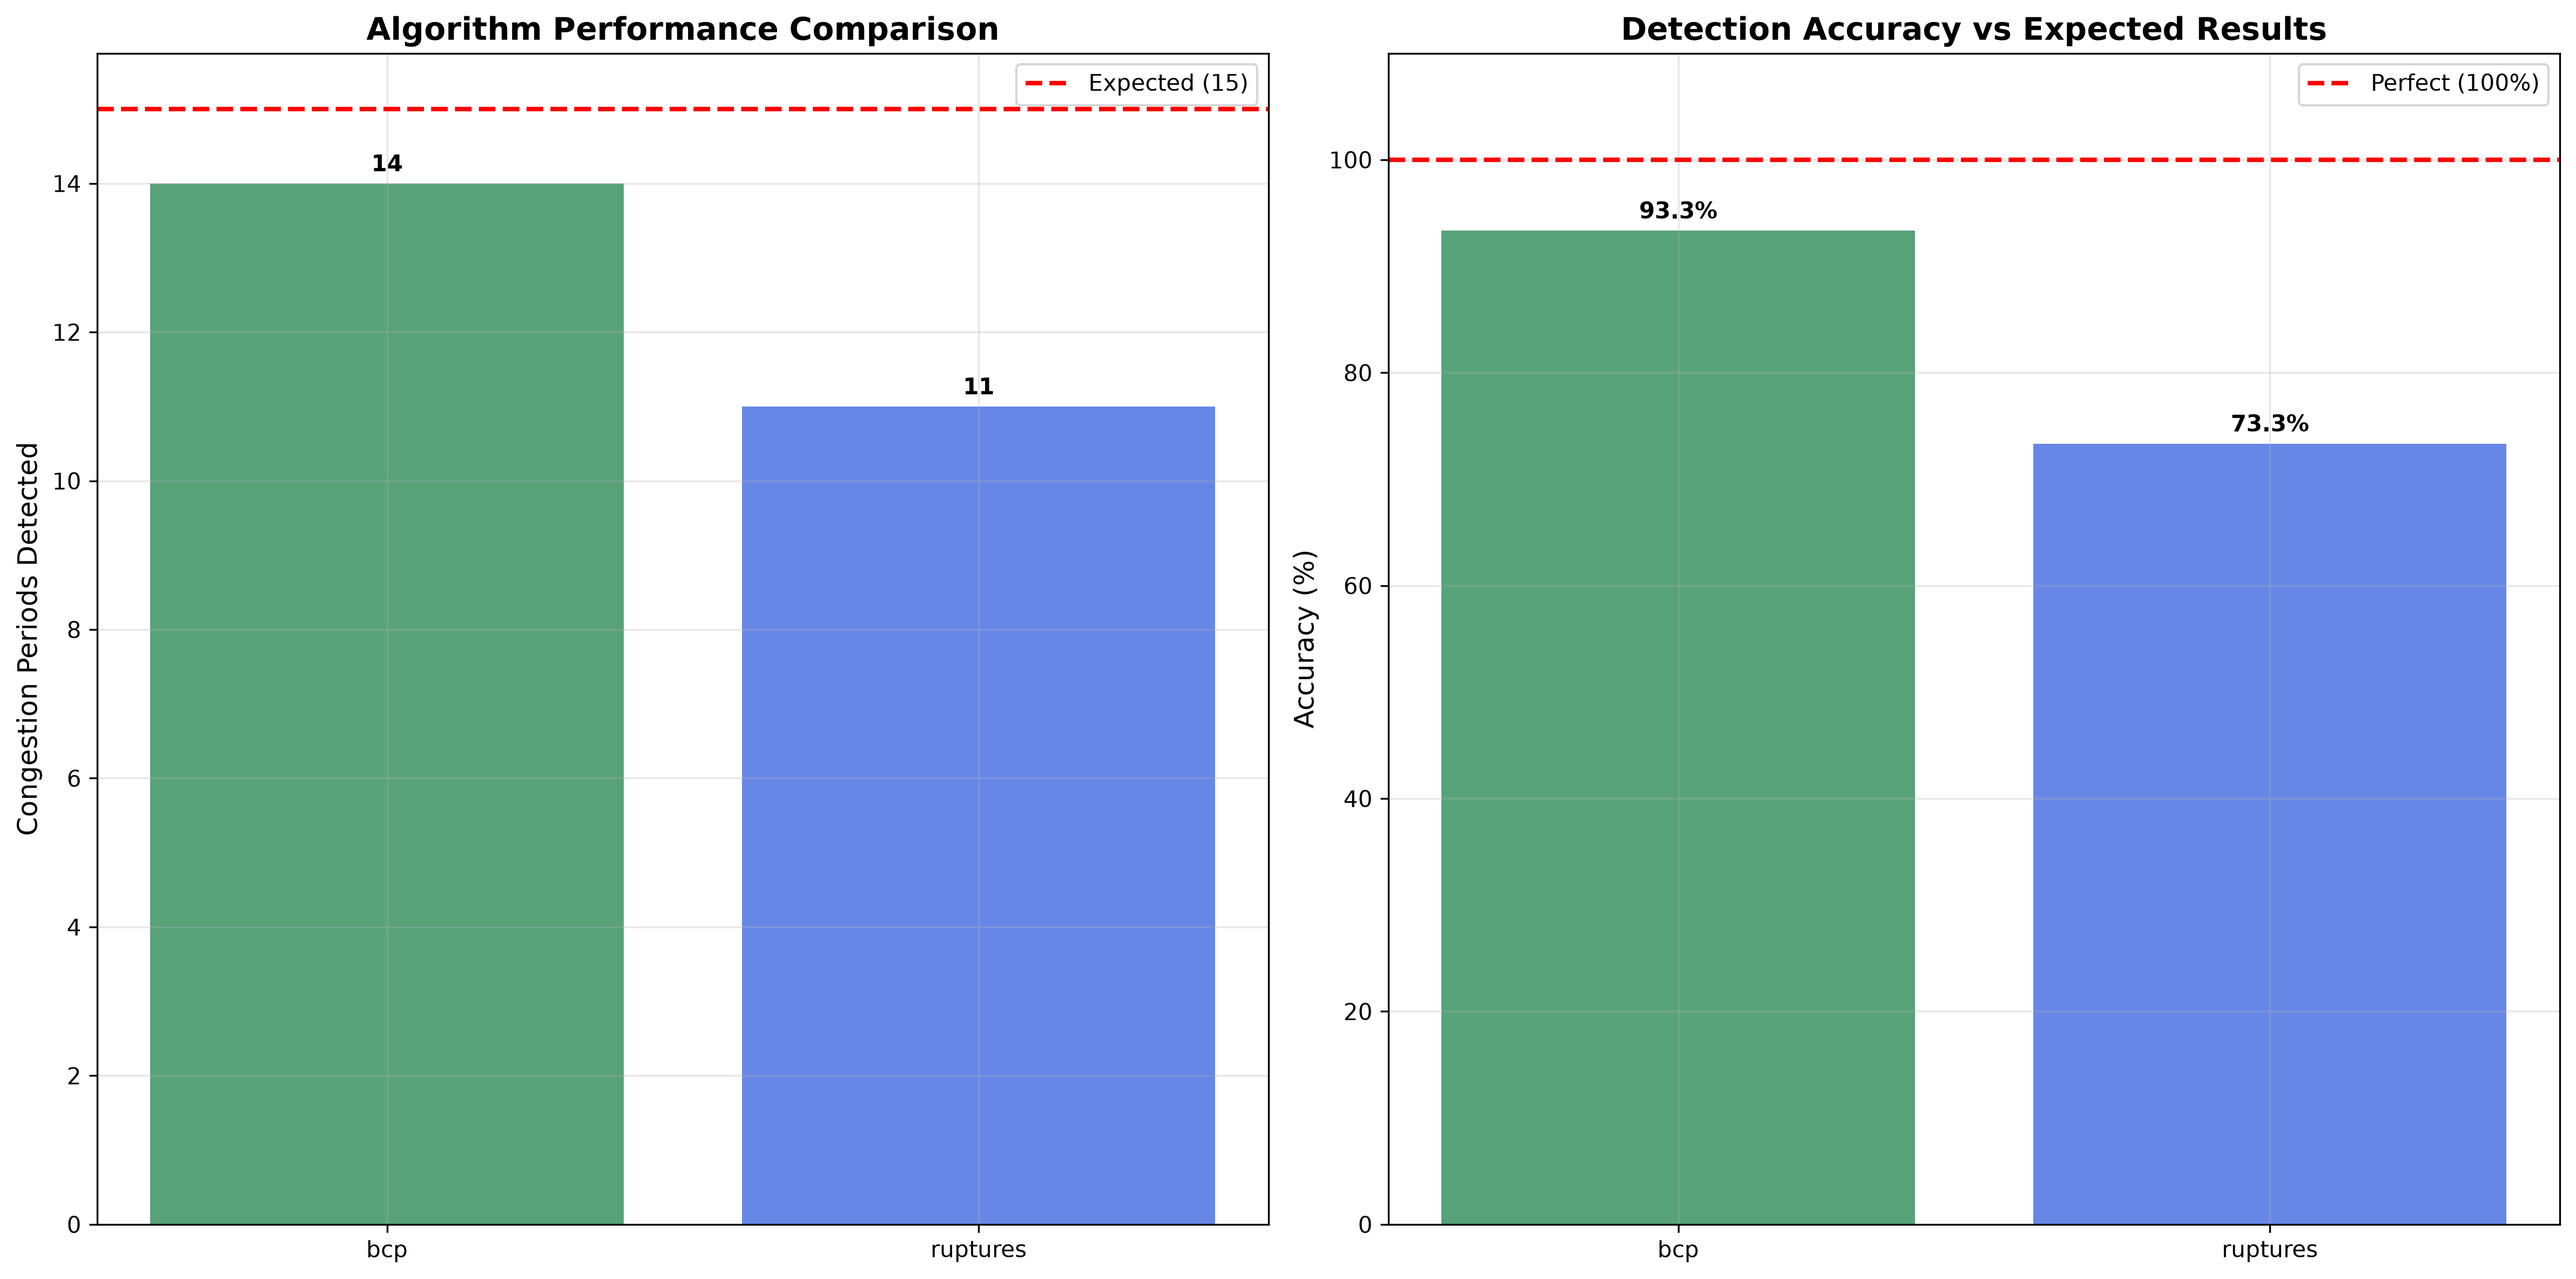
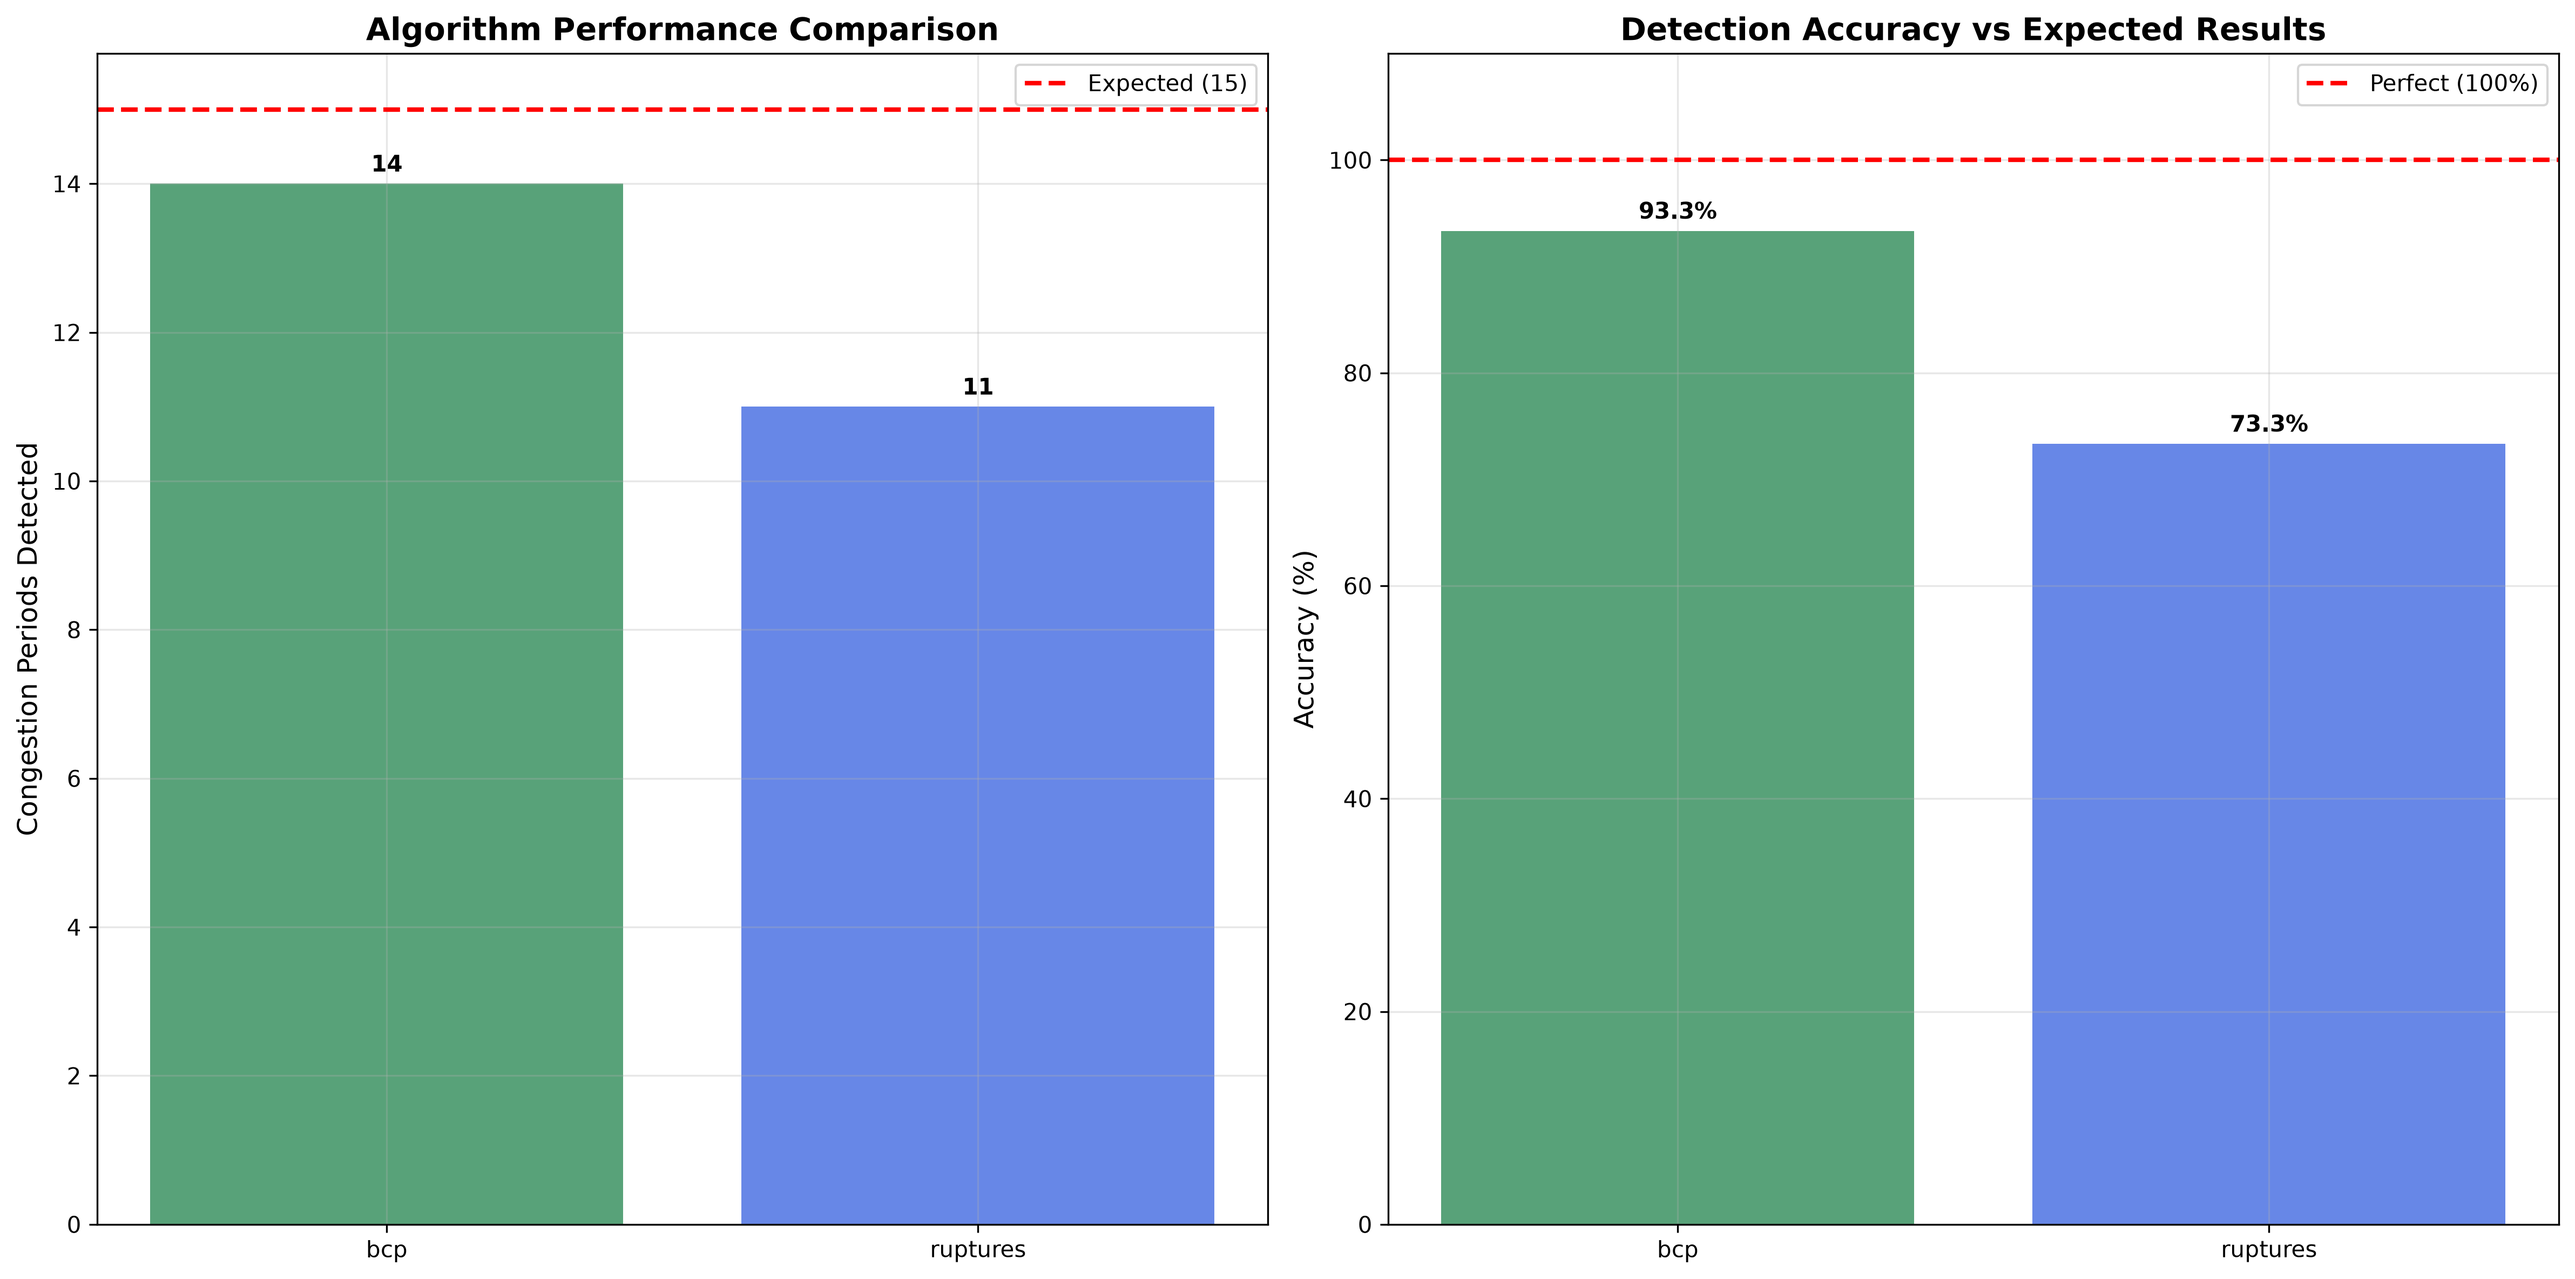
fix: address the Copilot findings on #19 and #20
- `verbose: true` in a configuration file now takes effect from the CLI: the
  analyzer sets the `jitterbug` logger level instead of relying on a second
  `basicConfig`, which is a no-op once the CLI installed its handler. Test.
- End-to-end `jitterbug analyze --config` test: `output_format: csv` from the
  file reaches the exporter through the command's wiring.
- `load_from_influxdb` epochs were computed with `astype(int) / 1e9`, wrong by
  1000x on pandas 3 (microsecond resolution); now resolution-independent. The
  mocked InfluxDB tests were skipped in CI (no `influx` extra) and never caught
  it; a stub `influxdb_client` module now stands in when the package is absent.
- Detector tests assert `tzinfo == timezone.utc` (ruptures on the three-segment
  fixture; BCP via the mocked backend with a certain change point).
- `tools/generate_visualizations.py` converts epochs in UTC, labels the axis
  `Time (UTC)`, and its README template matches the committed file. Bundled
  plots and summaries regenerated: same 14/11 periods, times now UTC (12:30
  instead of Chicago's 06:30).
- CHANGELOG: mypy entry no longer says "advisory"; `file_path` metadata asserted
  in the CSV loader test.

Changed region(s): [[0.4374, 0.0625, 0.4687, 0.0937]]

diff --git a/tests/test_io.py b/tests/test_io.py
@@ -1,6 +1,8 @@
 """Unit tests for ``jitterbug.io``: loaders, format inference, validation and exporters."""
 
 import json
+import sys
+import types
 from datetime import datetime, timezone
 from pathlib import Path
 from unittest.mock import MagicMock, patch
@@ -64,6 +66,7 @@ class TestCSV:
         assert ds.measurements[0].epoch == 1700000000.0
         assert ds.measurements[0].timestamp == datetime.fromtimestamp(1700000000, tz=timezone.utc)
         assert ds.metadata["source"] == "csv"
+        assert ds.metadata["file_path"] == str(csv_file)
 
     def test_explicit_format_wins_over_extension(self, loader: DataLoader, tmp_path: Path) -> None:
         path = tmp_path / "data.txt"
@@ -149,9 +152,25 @@ class TestFormatInference:
             loader.load_from_file(path, file_format="xml")
 
 
+@pytest.fixture
+def influxdb_client(monkeypatch: pytest.MonkeyPatch) -> types.ModuleType:
+    """The real package when installed, otherwise a stub so the loader's import succeeds.
+
+    The tests patch ``InfluxDBClient`` either way, so they exercise the loader's mapping
+    and clean-up logic even in CI, where the ``influx`` extra is not installed.
+    """
+    try:
+        import influxdb_client
+    except ImportError:
+        influxdb_client = types.ModuleType("influxdb_client")
+        influxdb_client.InfluxDBClient = MagicMock()  # type: ignore[attr-defined]
+        monkeypatch.setitem(sys.modules, "influxdb_client", influxdb_client)
+    return influxdb_client
+
+
+@pytest.mark.usefixtures("influxdb_client")
 class TestInfluxDB:
     def test_query_result_is_mapped_to_a_dataset(self, loader: DataLoader) -> None:
-        pytest.importorskip("influxdb_client")
         frame = pd.DataFrame(
             {
                 "_time": pd.to_datetime(["2024-01-01T00:00:00Z", "2024-01-01T00:01:00Z"]),
@@ -171,7 +190,6 @@ class TestInfluxDB:
         assert ds.measurements[0].epoch == datetime(2024, 1, 1, tzinfo=timezone.utc).timestamp()
 
     def test_multiple_tables_are_concatenated(self, loader: DataLoader) -> None:
-        pytest.importorskip("influxdb_client")
         t1 = pd.DataFrame({"_time": pd.to_datetime(["2024-01-01T00:00:00Z"]), "_value": [1.0]})
         t2 = pd.DataFrame({"_time": pd.to_datetime(["2024-01-01T00:01:00Z"]), "_value": [2.0]})
         client = MagicMock()
@@ -181,7 +199,6 @@ class TestInfluxDB:
         assert len(ds) == 2
 
     def test_missing_value_column(self, loader: DataLoader) -> None:
-        pytest.importorskip("influxdb_client")
         frame = pd.DataFrame({"_time": pd.to_datetime(["2024-01-01T00:00:00Z"]), "x": [1.0]})
         client = MagicMock()
         client.query_api.return_value.query_data_frame.return_value = frame

diff --git a/tests/test_change_point_algorithms.py b/tests/test_change_point_algorithms.py
@@ -5,7 +5,7 @@ Comprehensive tests for all change point detection algorithms.
 import importlib.util
 import sys
 import types
-from datetime import datetime, timedelta
+from datetime import datetime, timedelta, timezone
 
 import numpy as np
 import pytest
@@ -135,6 +135,15 @@ class TestRupturesDetector:
 
             except ImportError:
                 pytest.skip(f"Ruptures library not available for model {model}")
+
+    def test_ruptures_timestamps_are_utc(self, three_segment_min_rtt: MinimumRTTDataset):
+        """Regression: change point timestamps used to be naive local time."""
+        detector = RupturesDetector(ChangePointDetectionConfig(algorithm="ruptures"))
+        change_points = detector.detect(three_segment_min_rtt)
+        assert change_points, "the three-segment series has two clear jumps"
+        for cp in change_points:
+            assert cp.timestamp.tzinfo == timezone.utc
+            assert cp.timestamp.timestamp() == cp.epoch
 
     def test_ruptures_penalty_effects(self):
         """Test that penalty parameter affects number of change points."""
@@ -273,7 +282,9 @@ class TestBayesianChangePointDetector:
         def offline_changepoint_detection(data, prior, likelihood, truncate, device):
             calls["detection_device"] = device
             calls["likelihood"] = likelihood
-            return None, None, np.full((2, len(data)), -np.inf)
+            log_pcp = np.full((2, len(data)), -np.inf)
+            log_pcp[0, 5] = 0.0  # probability 1 of a change point at index 5
+            return None, None, log_pcp
 
         class Priors:
             @staticmethod
@@ -297,7 +308,8 @@ class TestBayesianChangePointDetector:
         config = ChangePointDetectionConfig(algorithm="bcp", bcp_device=device)
         change_points = BayesianChangePointDetector(config).detect(three_segment_min_rtt)
 
-        assert change_points == []
+        assert [cp.epoch for cp in change_points] == [three_segment_min_rtt.measurements[5].epoch]
+        assert change_points[0].timestamp.tzinfo == timezone.utc
         assert calls["likelihood_device"] == device
         assert calls["detection_device"] == device
         assert isinstance(calls["likelihood"], StudentT)

diff --git a/tools/generate_visualizations.py b/tools/generate_visualizations.py
@@ -1,6 +1,6 @@
 #!/usr/bin/env python3
 
-from datetime import datetime
+from datetime import datetime, timezone
 from pathlib import Path
 
 import matplotlib.pyplot as plt
@@ -30,7 +30,7 @@ def generate_algorithm_visualization(algorithm_name, output_dir):
 
         # Convert epochs to datetime
         def epoch_to_datetime(epoch_series):
-            return [datetime.fromtimestamp(t) for t in epoch_series]
+            return [datetime.fromtimestamp(t, tz=timezone.utc) for t in epoch_series]
 
         raw_times = epoch_to_datetime(raw_df["epoch"])
         mins_times = epoch_to_datetime(mins_df["epoch"])
@@ -68,8 +68,8 @@ def generate_algorithm_visualization(algorithm_name, output_dir):
         congested_periods = []
 
         for inference in results.inferences:
-            start_dt = datetime.fromtimestamp(inference.start_epoch)
-            end_dt = datetime.fromtimestamp(inference.end_epoch)
+            start_dt = datetime.fromtimestamp(inference.start_epoch, tz=timezone.utc)
+            end_dt = datetime.fromtimestamp(inference.end_epoch, tz=timezone.utc)
             congestion_value = 1.0 if inference.is_congested else 0.0
 
             # Add points for step plot
@@ -94,7 +94,7 @@ def generate_algorithm_visualization(algorithm_name, output_dir):
             label="Detected Congestion",
         )
         axes[2].set_ylabel("Congested", fontsize=12)
-        axes[2].set_xlabel("Time", fontsize=12)
+        axes[2].set_xlabel("Time (UTC)", fontsize=12)
         axes[2].set_ylim(-0.1, 1.1)
         axes[2].set_yticks([0, 1])
         axes[2].set_yticklabels(["No", "Yes"])
@@ -225,8 +225,8 @@ def main():
     with readme_path.open("w") as f:
         f.write("# Jitterbug Algorithm Visualization Examples\n\n")
         f.write(
-            "This directory contains visualization examples for all change point detection "
-            "algorithms in Jitterbug v2.0.\n\n"
+            "This directory contains visualization examples for both change point detection "
+            "algorithms in Jitterbug.\n\n"
         )
         f.write("## Algorithm Performance Summary\n\n")
         f.write("| Algorithm | Detected Periods | Accuracy vs Expected (15) | Rating |\n")

diff --git a/tests/test_cli.py b/tests/test_cli.py
@@ -82,3 +82,33 @@ def test_invalid_algorithm_flag_is_rejected():
     result = runner.invoke(app, ["analyze", str(EXAMPLE_CSV), "--algorithm", "nope"])
     assert result.exit_code != 0
     assert "algorithm" in result.output
+
+
+@pytest.mark.skipif(not EXAMPLE_CSV.exists(), reason="example dataset not present")
+def test_analyze_honours_a_config_file_end_to_end(tmp_path: Path):
+    """The file's `output_format` and `threshold` must reach the analyzer through the CLI."""
+    cfg = tmp_path / "config.yaml"
+    cfg.write_text(
+        "change_point_detection:\n  algorithm: ruptures\n  threshold: 0.9\n"
+        "jitter_analysis:\n  method: jitter_dispersion\noutput_format: csv\n"
+    )
+    out = tmp_path / "results.csv"
+    result = runner.invoke(
+        app, ["analyze", str(EXAMPLE_CSV), "--config", str(cfg), "--output", str(out)]
+    )
+    assert result.exit_code == 0, result.output
+    header = out.read_text().splitlines()[0]
+    assert header == "starts,ends,congestion", header  # the v1 CSV layout, not JSON
+
+
+def test_verbose_from_a_config_file_takes_effect(tmp_path: Path):
+    """Regression: the CLI installs a logging handler before reading the file, and a
+    second `basicConfig` is a no-op, so `verbose: true` never enabled debug output."""
+    import logging
+
+    logging.basicConfig(level=logging.INFO)  # what the CLI does before loading the config
+    from jitterbug.analyzer import JitterbugAnalyzer
+
+    JitterbugAnalyzer(JitterbugConfig(verbose=True))
+    assert logging.getLogger("jitterbug").isEnabledFor(logging.DEBUG)
+    logging.getLogger("jitterbug").setLevel(logging.NOTSET)  # do not leak into other tests

diff --git a/src/jitterbug/io/data_loader.py b/src/jitterbug/io/data_loader.py
@@ -306,7 +306,11 @@ class DataLoader:
 
             # Map InfluxDB columns to expected format
             if "_time" in df.columns:
-                df["epoch"] = pd.to_datetime(df["_time"]).astype(int) / 1e9
+                # Seconds since the epoch regardless of the datetime resolution
+                # (pandas >= 3 parses to microseconds, so `.astype(int) / 1e9` was
+                # off by a factor of 1000).
+                times = pd.to_datetime(df["_time"], utc=True)
+                df["epoch"] = (times - pd.Timestamp(0, tz="UTC")) / pd.Timedelta(seconds=1)
 
             # Look for RTT value column
             rtt_column = None

diff --git a/src/jitterbug/analyzer.py b/src/jitterbug/analyzer.py
@@ -73,6 +73,10 @@ class JitterbugAnalyzer:
         logging.basicConfig(
             level=level, format="%(asctime)s - %(name)s - %(levelname)s - %(message)s"
         )
+        # basicConfig is a no-op once a handler is installed (the CLI installs one before
+        # it reads the configuration file), so the package logger is set explicitly for
+        # ``verbose: true`` in a file to take effect.
+        logging.getLogger("jitterbug").setLevel(level)
 
     def _initialize_components(self) -> None:
         """Initialize all analysis components."""

diff --git a/CHANGELOG.md b/CHANGELOG.md
@@ -28,7 +28,7 @@ and this project adheres to [Semantic Versioning](https://semver.org/spec/v2.0.0
 - `get_available_algorithms()` now reports only the detectors whose packages are
   installed (`importlib.util.find_spec`), with tests.
 - Continuous integration on GitHub Actions: ruff lint and format checks, mypy
-  (advisory), `pip-audit` over the locked dependency set, tests on Python 3.10–3.13
+  (blocking since #19), `pip-audit` over the locked dependency set, tests on Python 3.10–3.13
   (Ubuntu) and 3.12 (macOS) with a CLI smoke test on the bundled PAM 2022 dataset,
   and a build job that installs the wheel in a clean environment. (#4)
 - `tests/test_cli.py`: first tests for the command-line interface, run through Typer's
@@ -75,6 +75,14 @@ and this project adheres to [Semantic Versioning](https://semver.org/spec/v2.0.0
 
 ### Fixed
 
+- `load_from_influxdb` computed epochs as `astype(int) / 1e9`, which assumes nanosecond
+  timestamps; pandas 3 parses `_time` at microsecond resolution, so every epoch was
+  1000× too small. The conversion is now resolution-independent. Found by running the
+  mocked InfluxDB tests in CI, where the `influx` extra is absent (a stub module now
+  stands in for it).
+- `verbose: true` in a configuration file had no effect from the CLI: the command
+  installs a logging handler before reading the file, and the analyzer's second
+  `basicConfig` was a no-op. The analyzer now sets the `jitterbug` logger level.
 - The two analysis notebooks in `examples/` run again: they imported `requests` (no
   longer a dependency), read fields that do not exist on the result models
   (`start_time`, `confidence_score`, `jitter_ratio`, `ks_statistic`), and their "REST
